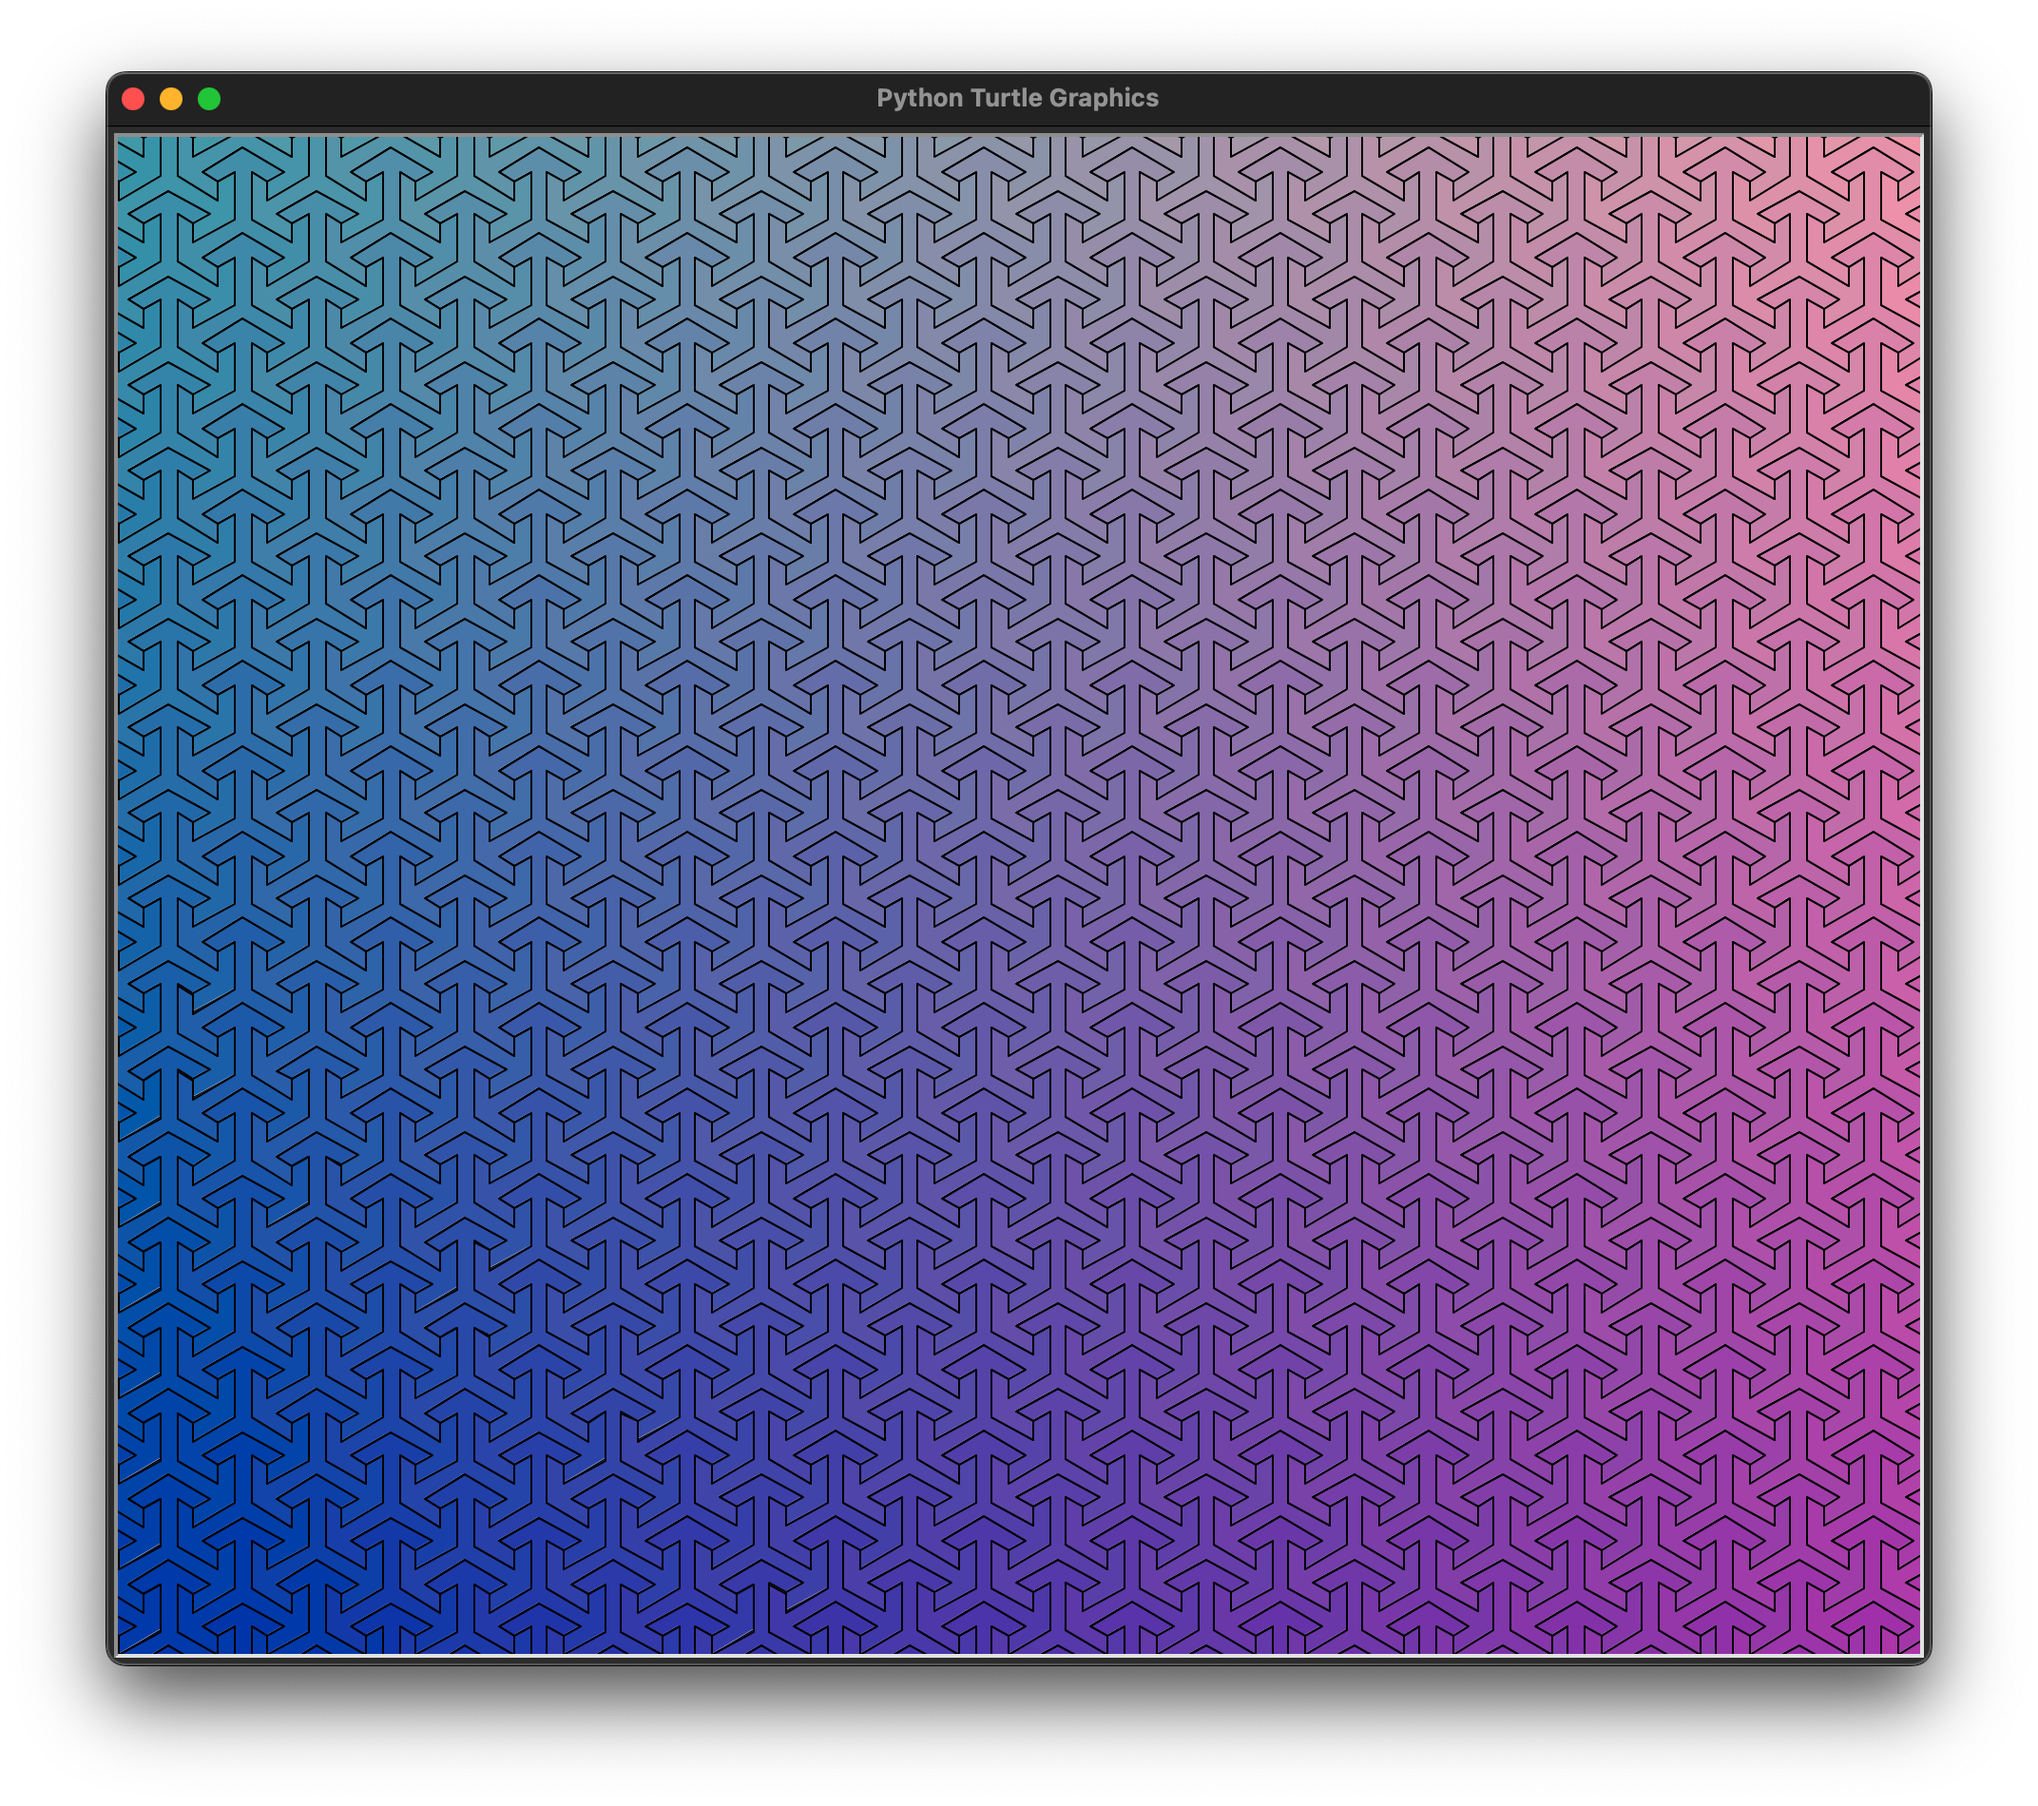
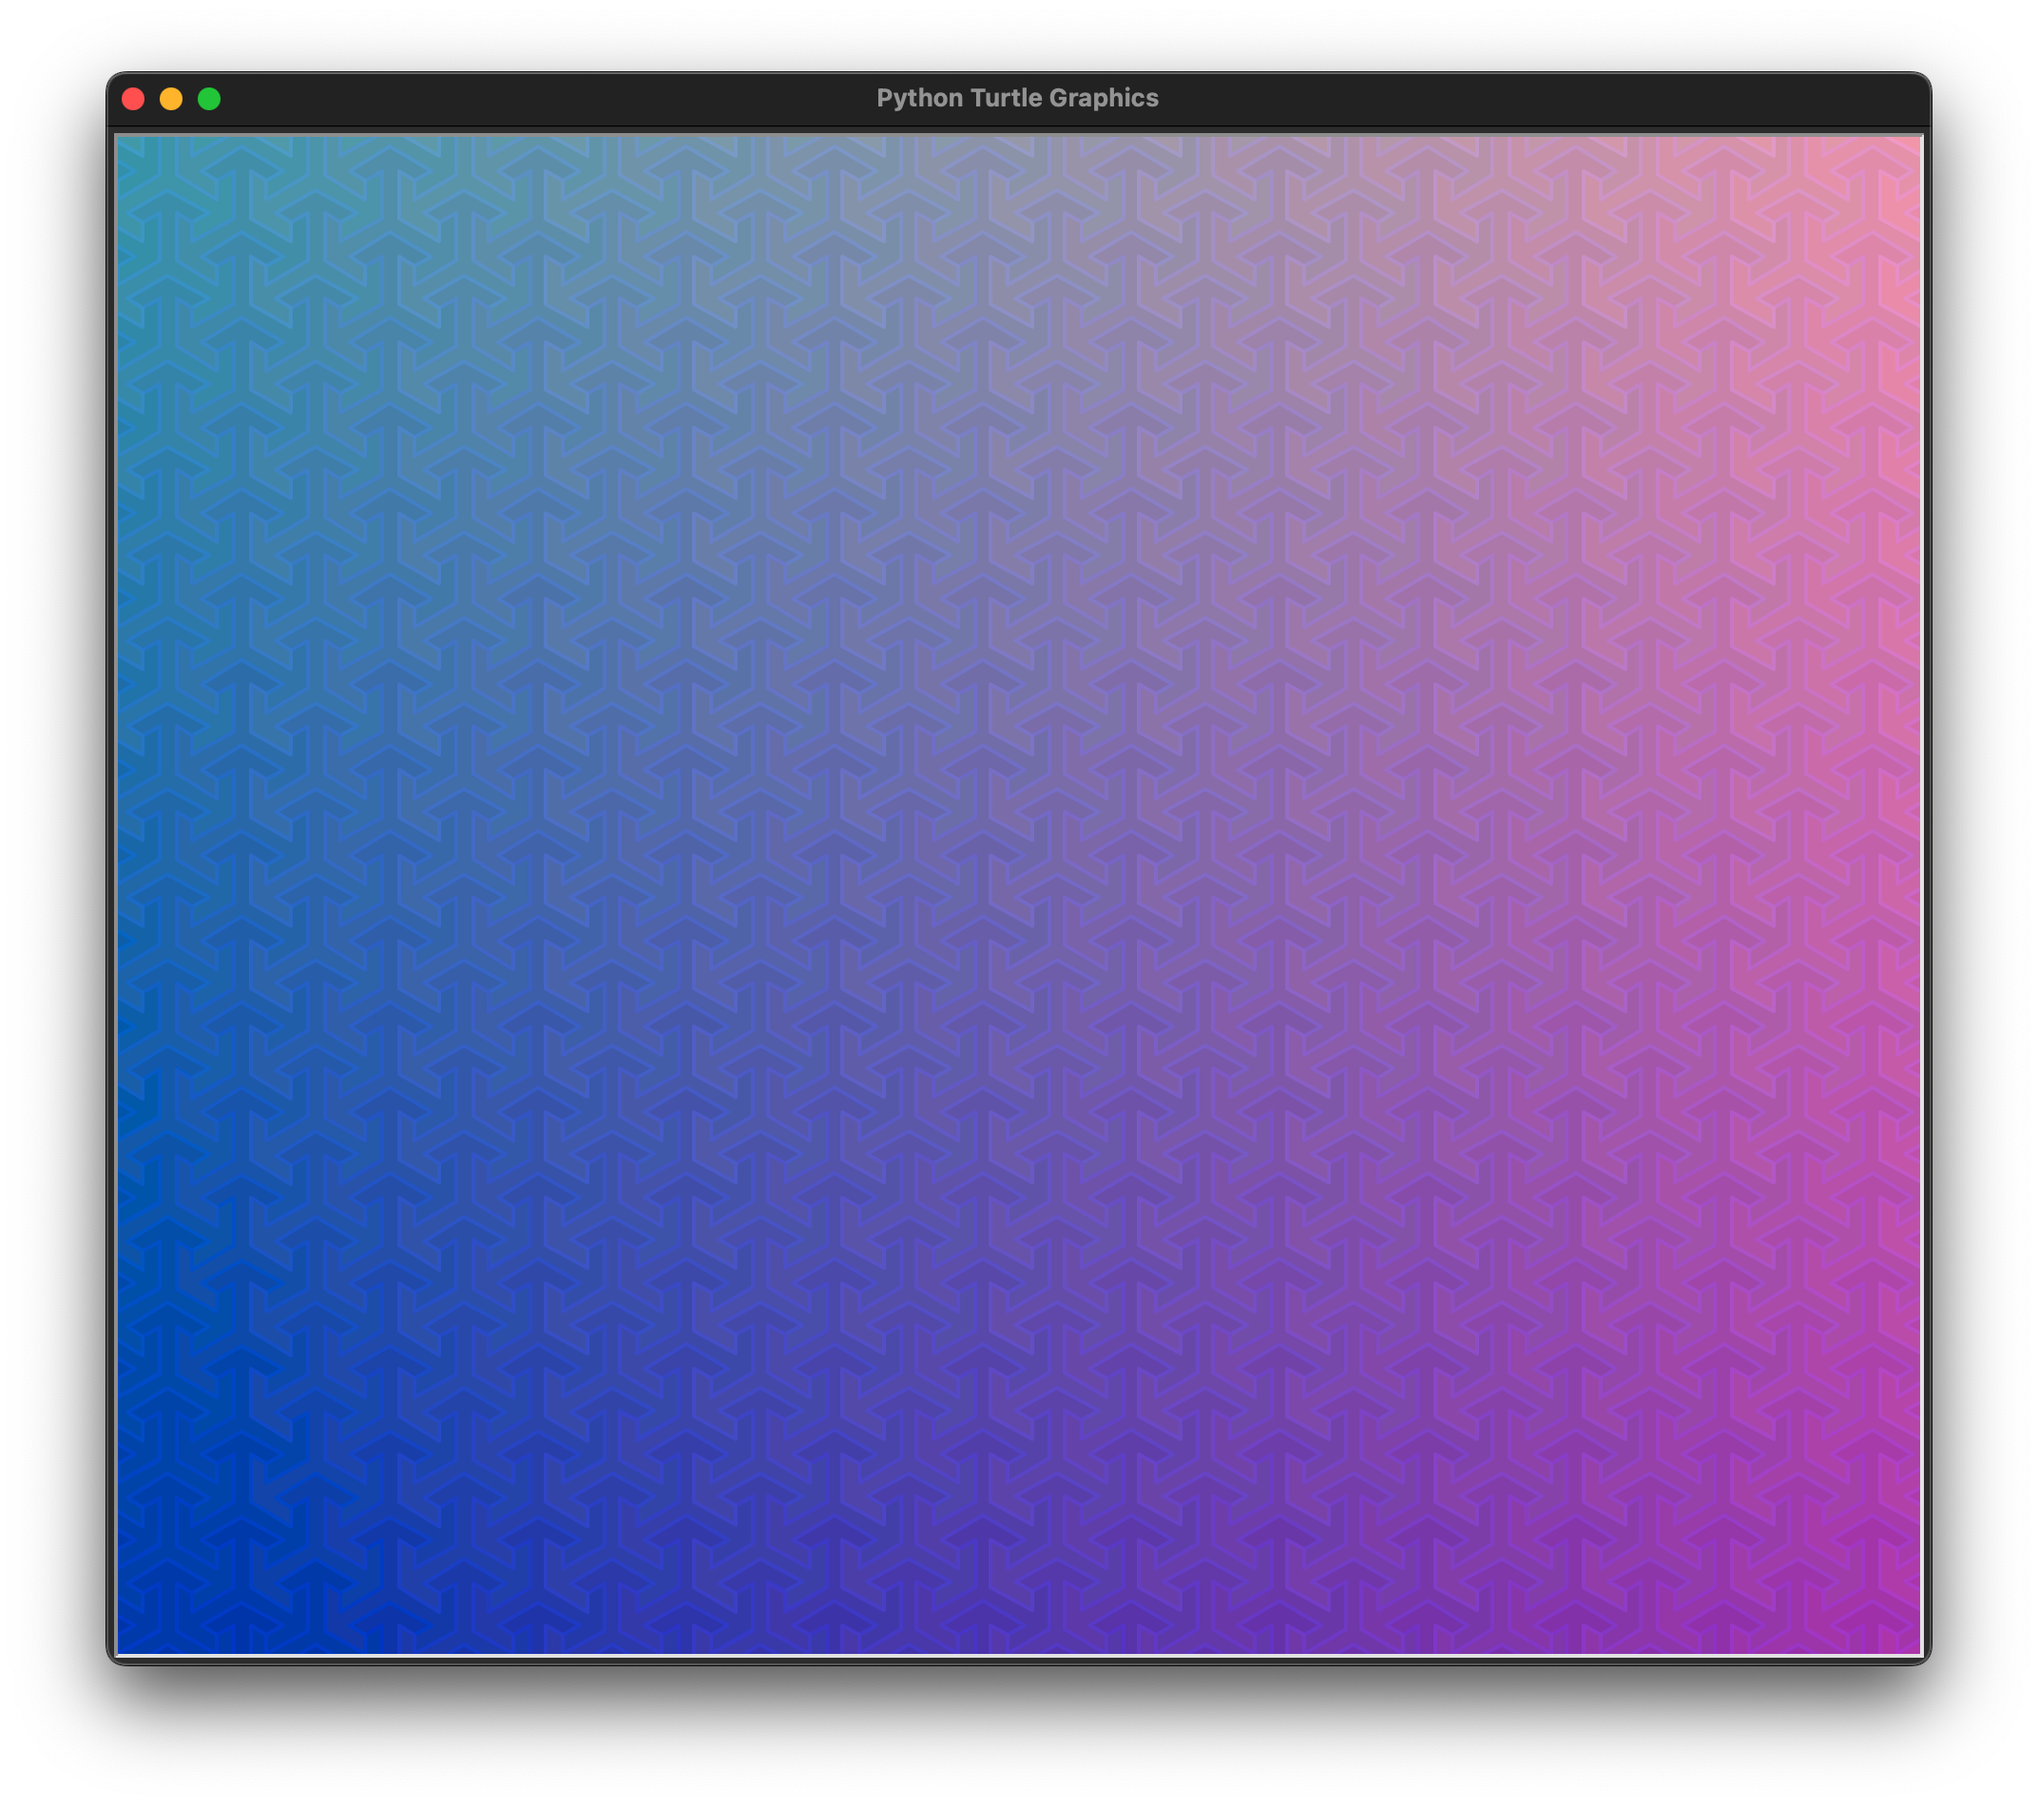
Draw instantly, dynamic colors.

Changed region(s): [[0.0625, 0.0621, 0.9375, 0.9316]]

diff --git a/tri-arrow.py b/tri-arrow.py
@@ -3,9 +3,10 @@
 from turtle import *
 
 scale = 1
-tracer(24,200)
+tracer(0,0)
 speed(0)
 hideturtle()
+pensize(2)
 
 penup()
 left(90)
@@ -17,7 +18,9 @@ right(90)
 for a in range(26):
     for b in range(24):
         ch = (b + 1)/25
-        color('black', (ch/3 + ((a/24)/1.6), ch/2 + 0.2, 0.7))
+        fill_color = (ch/3 + ((a/24)/1.6), ch/2 + 0.2, 0.7)
+        stroke_color = (ch/3 + ((a/24)/1.6),ch/2 + 0.21, 0.8)
+        color(stroke_color, fill_color)
         begin_fill()
         for c in range(3):
             pendown()
